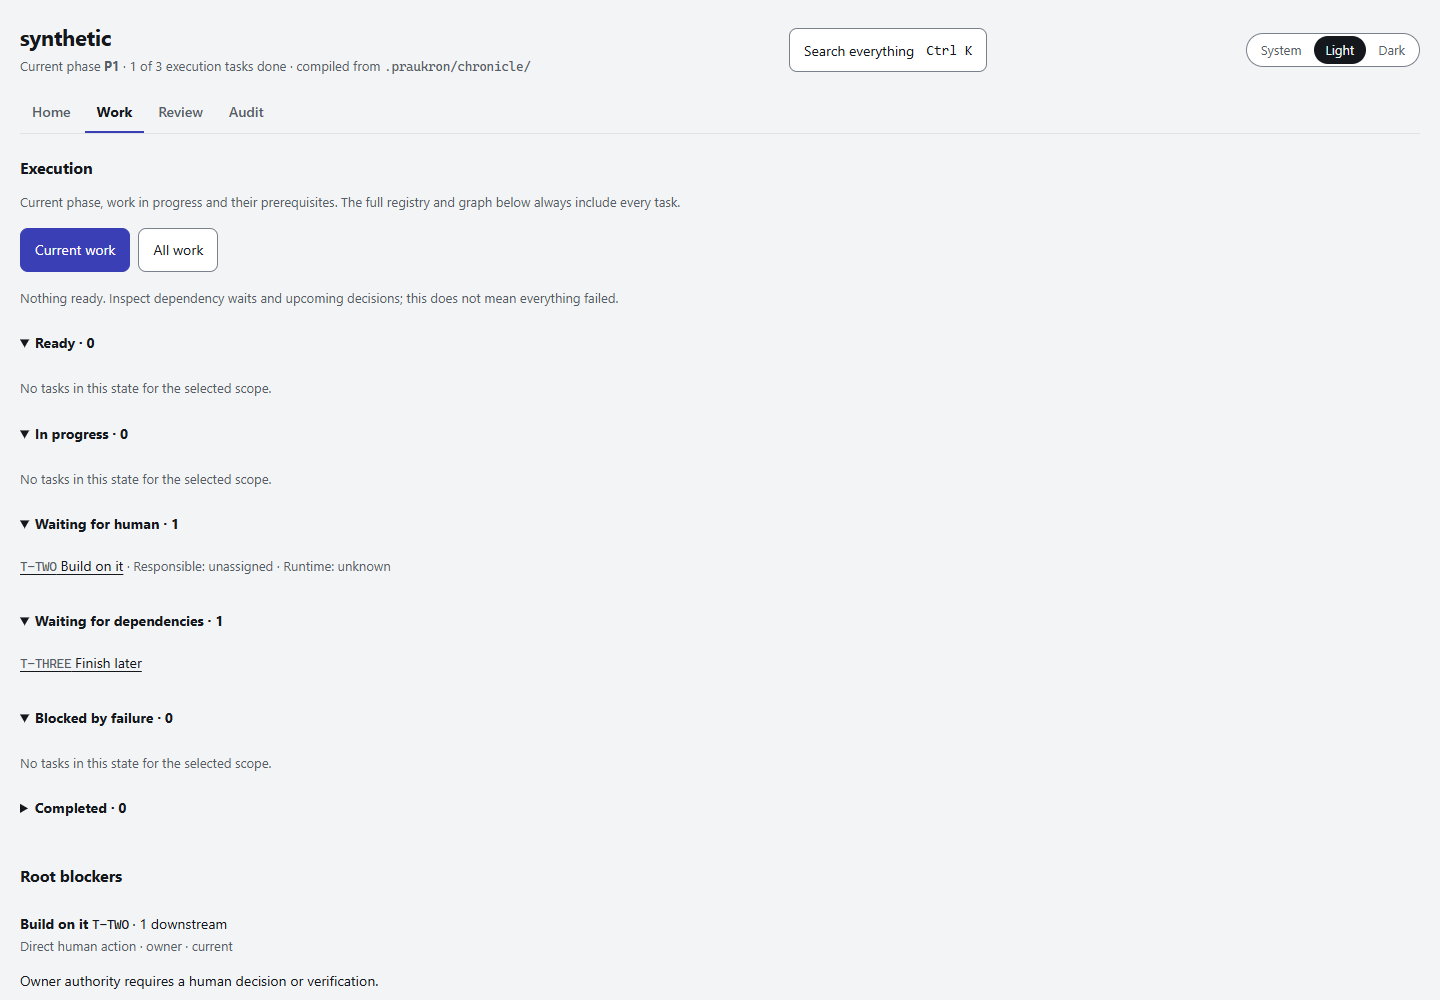
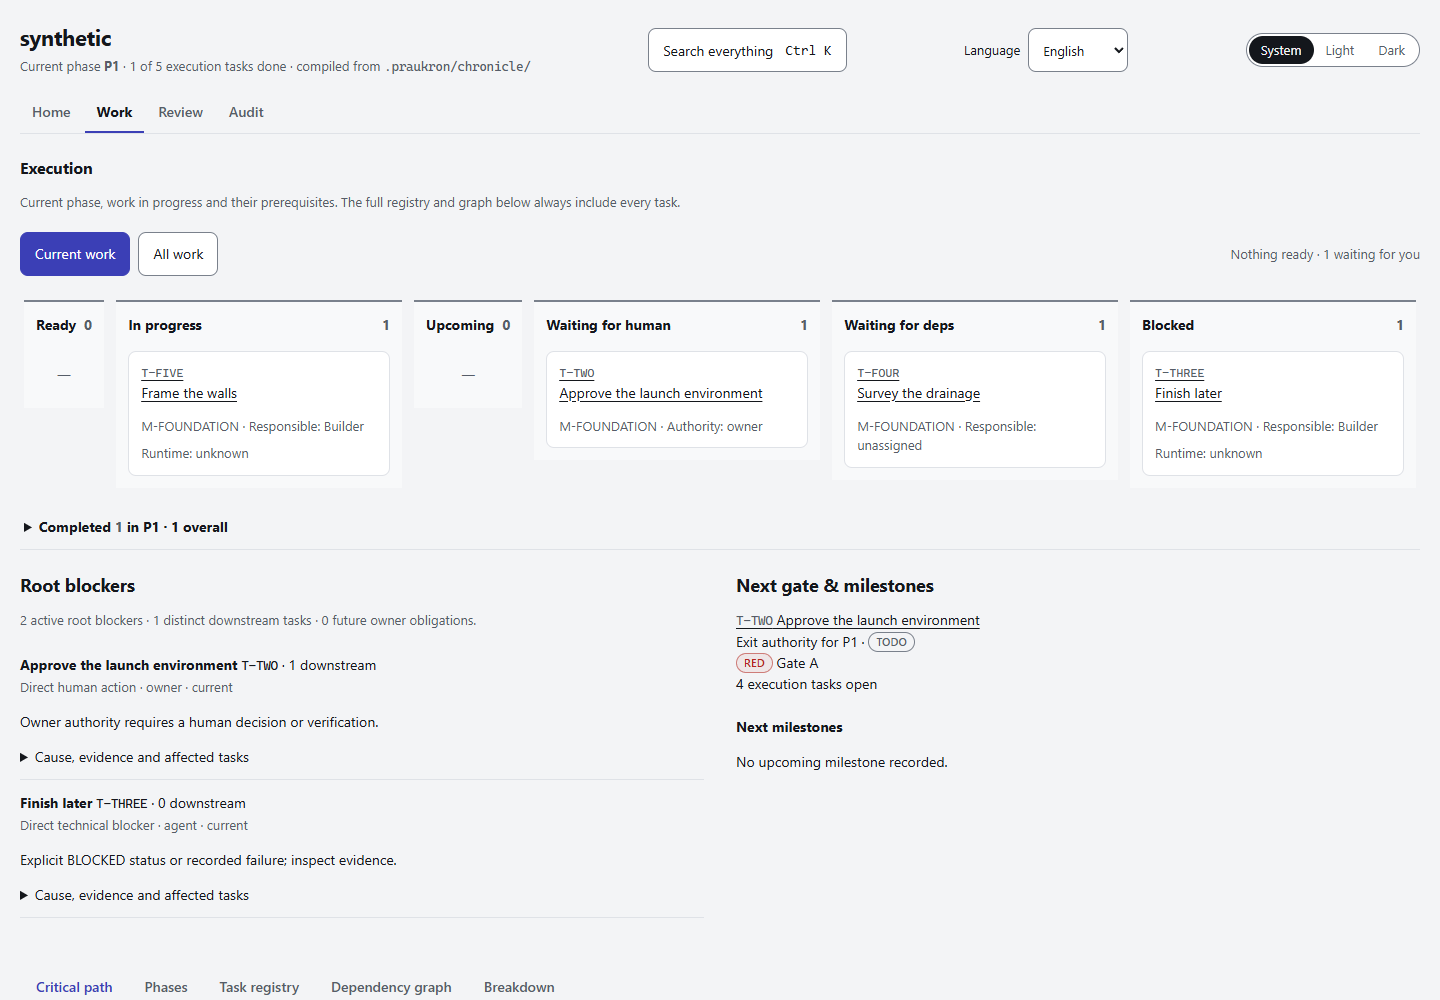
T-DOCS-SYNC-01: bring README, guide and screenshots up to 2.2.4
Regenerate all five README screenshots from a synthetic chronicle on the
served dashboard: Home with its Verify tick, the Work state board, a task
dialog with pass/fail/not-run criteria, Audit, and the native critical path.
Document dashboard --serve, respond, one-click Verify/Confirm, Approve
selected and the dashboard language in the README and guide; fix stale tab
names (Operations, Overview), the command total (19) and the test count (878).

diff --git a/README.md b/README.md
@@ -48,10 +48,10 @@ those documents into project state, and that state is then projected two ways.
 A person opens a page:
 
 <p align="center">
-  <img src="docs/assets/dashboard-state.png" alt="Home opens with a phase timeline, a current-phase card containing module progress, gate and active work, and a next-action column with separate project figures." width="900">
+  <img src="docs/assets/dashboard-state.png" alt="Home opens with a phase timeline, a current-phase card containing module progress, gate, root blocker and active work, and a next-action column whose Verify tick approves the owner task in one click, above separate project figures." width="900">
 </p>
 
-<p align="center"><em><code>praukron dashboard</code> on a synthetic test project. See the <a href="docs/dashboard-ux.md">workspace guide</a> for the interaction model.<br>
+<p align="center"><em><code>praukron dashboard --serve</code> on a synthetic test project. See the <a href="docs/dashboard-ux.md">workspace guide</a> for the interaction model.<br>
 Every figure is computed from the Markdown files in <code>.praukron/chronicle/</code>. No model, no service, no network.</em></p>
 
 Home opens with a phase timeline showing state and exact completion counts.
@@ -61,6 +61,13 @@ it; on phones, the action follows the timeline. Detailed progress charts remain
 in Work. Execution, operations and validation stay separate. Review shows each decision's title,
 reason, affected work and action first; one disclosure opens its records and
 response options. Both views remain readable without JavaScript.
+
+`praukron dashboard --serve` serves the same page on `127.0.0.1` so the owner
+can answer from it. Eligible Review items, and Home's next action, carry a
+**Verify** or **Confirm** tick that records the response in one click; **Approve
+selected** records several at once, all or nothing. Every answer is written to
+`RESPONSES.md` through `praukron respond`, under your `gh` login. The page is in
+English or Vietnamese (`--lang vi`, or `Language:` in `THESIS.md`).
 
 An agent asks for a packet, and gets the same state as structured text:
 
@@ -138,17 +145,17 @@ Nothing here is a status report someone wrote by hand. It is computed from the
 authored documents, so it cannot drift away from them.
 
 <p align="center">
-  <img src="docs/assets/dashboard-next.png" alt="Work separates ready work, work in progress, human decisions, dependency waits, failures and completed tasks, with expandable root causes and full inspection views." width="900">
+  <img src="docs/assets/dashboard-next.png" alt="Work lays out a state board of Ready, In progress, Upcoming, Waiting for human, Waiting for dependencies and Blocked, with Completed folded below, then root blockers beside the next gate." width="900">
 </p>
 
-<p align="center"><em>What is in flight, what is ready, what blocks the project, and what lies on the critical path.<br>
+<p align="center"><em>What is in flight, what is ready, what waits on a person, what failed, and what blocks the project.<br>
 Obstacles are grouped by kind, and an operations task that holds up the path is named as an external blocker rather than joining it.</em></p>
 
 <p align="center">
-  <img src="docs/assets/dashboard-operations.png" alt="Audit preserves governance, validation, technical debt, acceptance evidence, operational trace and history." width="900">
+  <img src="docs/assets/dashboard-operations.png" alt="Audit opens evidence and governance: gates, validation strength and technical debt, then architecture decisions, acceptance criteria, task records, operational trace, responses and journal history." width="900">
 </p>
 
-<p align="center"><em>Operations has its own tab: the support work around the project, the tool calls and commands behind it, what failed, and what was retried.<br>
+<p align="center"><em>Audit keeps the evidence, including the operational trace: the support work around the project, the tool calls and commands behind it, what failed, and what was retried.<br>
 None of it counts as progress. All of it stays reviewable, because it can explain why execution is stuck.</em></p>
 
 ## Done is a contract, not an opinion
@@ -167,11 +174,11 @@ Completion and confidence stay separate. A task can be `DONE` and still be
 manual evidence.
 
 <p align="center">
-  <img src="docs/assets/dashboard-contract.png" alt="A task detail dialog preserves dependencies, acceptance criteria, evidence, source references and a path to the full record in Audit." width="640">
+  <img src="docs/assets/dashboard-contract.png" alt="A task detail dialog shows dependencies, three acceptance criteria (not run, pass, fail), the obstacle they cause, decisions, schedule, source and a path to the full record in Audit." width="640">
 </p>
 
 <p align="center"><em>Click any task for its contract, its criteria, and the evidence behind each one.<br>
-One criterion passes, one fails, one has not run — and the test runs and the fix recorded against the task sit beside them.</em></p>
+One criterion passes, one fails, one has not run — so the task cannot close, and the dialog says why.</em></p>
 
 That last part matters more than it looks. When two people — or two agents —
 disagree about whether something is finished, the contract makes the
@@ -197,7 +204,7 @@ strongly each finished task is actually backed, which is a different question
 from whether it is done.
 
 <p align="center">
-  <img src="docs/assets/dashboard-views.png" alt="Work draws the critical path natively with task status labels and an expandable Mermaid source." width="900">
+  <img src="docs/assets/dashboard-views.png" alt="Work draws the complete dependency graph and, under Views, the critical path natively with task status labels and an expandable Mermaid source." width="900">
 </p>
 
 <p align="center"><em>Six views draw offline: dependencies, critical path, phases, gates, dependency ordering and calendar Gantt.<br>
@@ -374,7 +381,9 @@ T-PILOT-01 — Run the continuity pilot
 | `praukron compile` | Rebuilds `.praukron/compiled/` from the authored documents. |
 | `praukron graph` | The six Mermaid views of the same state. |
 | `praukron dashboard` | Four workspaces: Home, Work, Review and Audit, with offline global search. |
+| `praukron dashboard --serve` | Serve the dashboard on `127.0.0.1` behind a per-session token so the owner can answer from Review: response forms, one-click Verify/Confirm ticks and atomic "Approve selected". |
 | `praukron dashboard --lang vi` | Render the dashboard in Vietnamese; overrides the optional `Language:` field in `THESIS.md`. Also works with `--serve`. |
+| `praukron respond <target> <action>` | Owner only: append `CONFIRM`, `REVISE`, `REJECT`, `GUIDE` or `VERIFY` for an assumption or task to `RESPONSES.md`, signed with the active `gh` login; `--batch` writes several, all or nothing. |
 | `praukron migrate` | Moves a chronicle written under an earlier layout into the current one. |
 
 The six write commands take a JSON payload (`--schema` prints it, `--dry-run`
@@ -456,9 +465,9 @@ into why the model is shaped this way.
 
 ## What is verified, and what is not
 
-**Implemented and tested.** The compiler and its twelve commands, acceptance
+**Implemented and tested.** The compiler and its nineteen commands, acceptance
 contracts with evidence, phases, gates, computed obstacles, the critical path,
-the dashboard, the execution/operations split, technical debt, the index and retrieval, optional CodeGraph, and the context packet, assumptions, owner responses and the served review page. 297 unit tests plus an installer
+the dashboard, the execution/operations split, technical debt, the index and retrieval, optional CodeGraph, and the context packet, assumptions, owner responses and the served review page. 878 unit tests plus an installer
 regression suite, and deleting the compiled directory reproduces every generated
 file byte for byte:
 

diff --git a/docs/GUIDE.md b/docs/GUIDE.md
@@ -587,6 +587,38 @@ Light / Dark control remembers your choice in the browser; until you choose,
 the page follows your system setting. None of this is project state: the page
 still writes nothing.
 
+The page speaks English or Vietnamese. Add `- Language: vi` to the thesis in
+`THESIS.md`, or pass `praukron dashboard --lang vi` (it overrides the field);
+the Language control in the header switches per viewer. Your records are
+shown as written.
+
+### Answering from the dashboard
+
+The static page only reads. To answer from it, the owner runs:
+
+```sh
+praukron dashboard --serve        # prints http://127.0.0.1:<port>/?token=...
+```
+
+It binds to `127.0.0.1` only, behind a token that lasts the session, and
+stops on Ctrl-C. Review then gains response controls. Eligible items, and
+Home's next action, also carry a tick: **Verify** records `VERIFY` for an
+owner task whose criteria all pass, and **Confirm** records `CONFIRM` for an
+open assumption; each tick records just that item. Mark several with their
+**Select** boxes and **Approve selected** writes them in one all-or-nothing
+batch; a stale item names itself and nothing is recorded. There is no undo. Every answer goes through `praukron respond`, so it
+lands in `RESPONSES.md` signed with your `gh` login, exactly as if you had
+typed it:
+
+```sh
+praukron respond T-205 VERIFY            # the text is read from stdin
+praukron respond A-12 CONFIRM --text-file note.md
+```
+
+An agent reconciles each response on its next turn; only the owner named in
+an ADR's `Owners:` can verify. The ticks are visible but disabled on the
+static page.
+
 ### Execution and operations
 
 Every task is either **execution** — work that advances the project itself —
@@ -614,7 +646,7 @@ the ones that need a `Domain:`.
 
 `TRACE.md` holds operational events — tool calls, commands, mini-actions,
 mutations, failures, retries — that an agent records when they could explain a
-problem later. They appear under Operations and in the task dialog, and never
+problem later. They appear under Audit's operational trace and in the task dialog, and never
 count as progress.
 
 ### Moving an older installation
@@ -695,7 +727,7 @@ actually needs.
 | `index-stale` or `index-missing` warning | The records changed, or `INDEX.md` was edited by hand | `praukron compile` |
 | `debt-trigger-reached` warning | A debt's trigger is reached and no repayment is scheduled | Schedule a task and link it, or record why the debt is still acceptable |
 | `ambiguous-domain` warning | A phase-independent task has no `Domain:` | Add `- Domain: execution` or `- Domain: operations`; `praukron domains` lists them |
-| A maintenance task disappeared from the Overview | It is declared `operations`, so it no longer competes with product work | Find it under Operations; it appears on the Overview only if execution waits on it |
+| A maintenance task disappeared from Home | It is declared `operations`, so it no longer competes with product work | Find it in Work's registry (filter by domain) and its trace under Audit; Home names it only if execution waits on it |
 | `stale-reference` warning | `HANDOFF.md` or `INTENT.md` names a file that moved or was deleted | Update the path in the handoff |
 | Merge conflict in `.praukron/compiled/` | Both branches recompiled | Take either side, then `praukron compile && praukron graph && praukron dashboard` |
 | Merge conflict in `INTENT.md` or `HANDOFF.md` | Both branches changed current state | Resolve by hand toward the branch whose work is current |

diff --git a/changelog.d/T-DOCS-SYNC-01.md b/changelog.d/T-DOCS-SYNC-01.md
@@ -1,0 +1,7 @@
+- Bring the README and guide up to the shipped dashboard. All five README
+  screenshots are regenerated from a synthetic chronicle: Home with its Verify
+  tick, the Work state board, a task dialog with passing, failing and unrun
+  criteria, Audit, and the native critical path. The README and guide now
+  document `dashboard --serve`, `respond`, one-click Verify/Confirm and
+  "Approve selected", and the dashboard language; stale tab names, the command
+  total and the test count are corrected.
